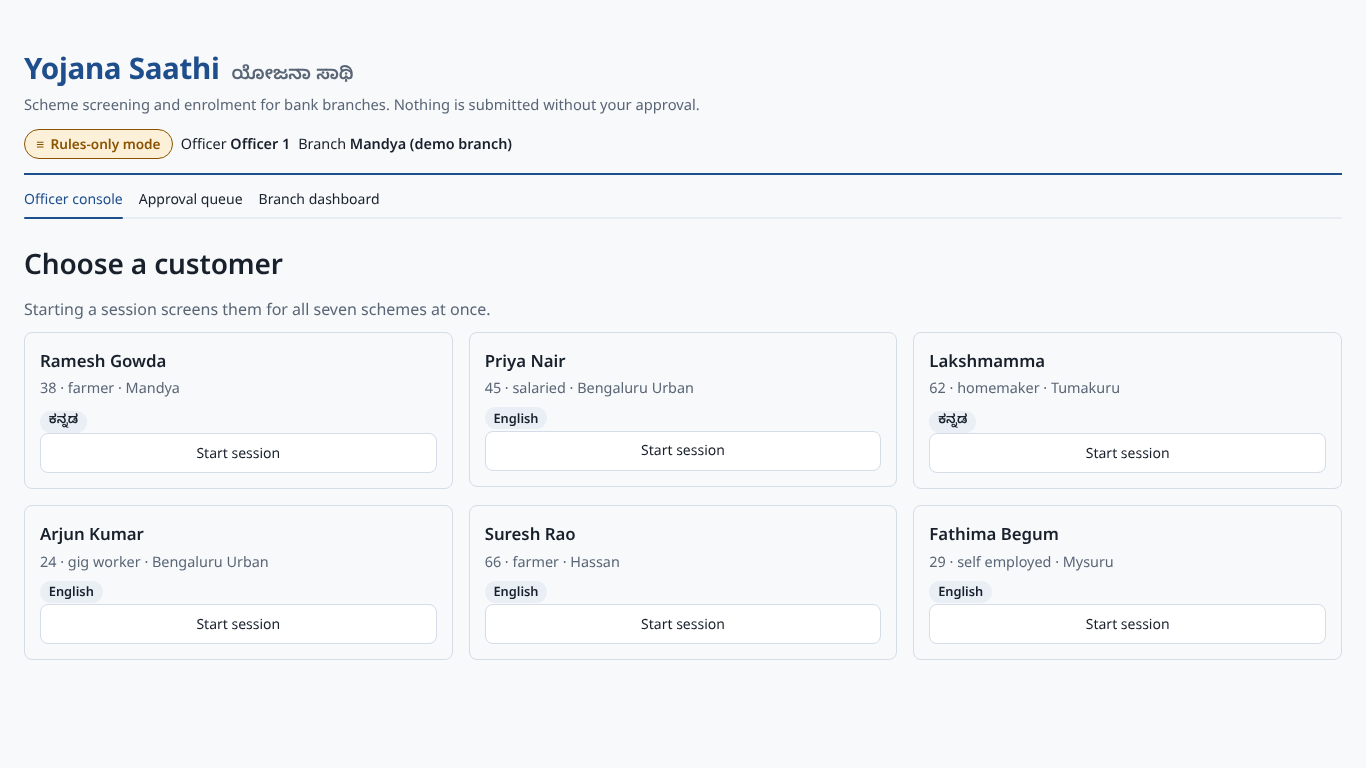
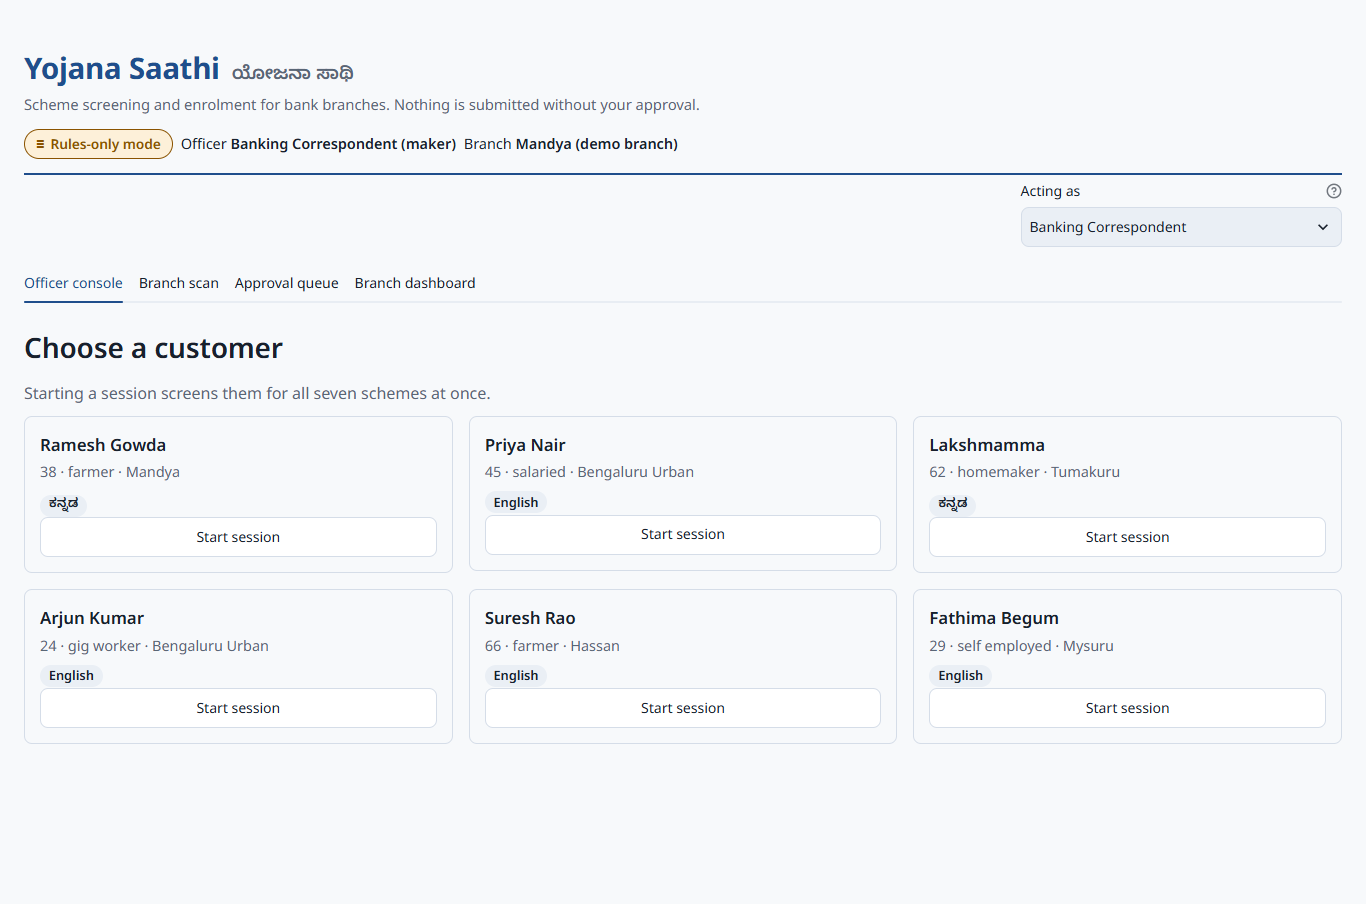
Docs: UI checks next to A1-A10, CI screenshots, refreshed screenshots (#26)
- DEMO.md: table of the UI walkthrough steps and what each asserts; the browser phase.
- UI.md: screenshots are regenerated by CI (ui-screenshots artifact) and how to refresh them
  locally; which files the script writes; scan row in the screenshot table. The dashboard
  full-page shot is now dashboard-1366x768.png (every tab shot is full page), so the
  duplicate dashboard-full-1366.png is gone.
- AGENTS.md layout: ui_flows.py, screenshots.py, smoke.py's new scope. TASKS.md: #26 done.
- docs/screenshots: regenerated by `SMOKE_SCREENSHOTS=docs/screenshots python scripts/smoke.py`.

diff --git a/docs/UI.md b/docs/UI.md
@@ -95,7 +95,7 @@ Status changes are announced three ways: the card pulses twice (skipped with red
 
 Escalated items (`NEEDS_OFFICER`) come first, highlighted. Then one group per customer, revised items with a diff on top. Each card shows the real PDF page as a thumbnail ("View page" for a readable size). On the right: what it is, who prepared it, why it was rejected, and **what changed since the rejection**. Below that, **Approve** (primary), **Reject…** (a popover with a required reason) or **Edit and send back…** (also a popover). Every action ends with a confirmation toast. Reason and edit inputs are forms, so the first click always counts. At 1366×768 the revised item's diff and Approve are visible without scrolling (checked in Chromium: Approve ends at 701px).
 
-| Priya: the diff since the rejection, ready to approve | Escalated first | "View page" |
+| The diff since the rejection, ready to approve | Escalated first | "View page" |
 |---|---|---|
 | ![diff](screenshots/queue-1366x768.png) | ![escalated](screenshots/queue-escalated-1366x768.png) | ![page](screenshots/queue-view-page-1366x768.png) |
 
@@ -124,14 +124,27 @@ The Report stage, fourth tab. It's **read-only**: one `GET /dashboard` and one `
 
 On an empty DB the tiles read 0 / "—" and the charts are replaced by "Run a session to see outcomes".
 
-| After the Ramesh and Priya flows (full page) | Clicked PMJJBY: panels and table filter |
+| After the smoke flows (full page) | Clicked PMJJBY: panels and table filter |
 |---|---|
-| ![full](screenshots/dashboard-full-1366.png) | ![filtered](screenshots/dashboard-filtered-1366.png) |
+| ![full](screenshots/dashboard-1366x768.png) | ![filtered](screenshots/dashboard-filtered-1366.png) |
 
 ## Screenshots
+
+**CI regenerates them on every PR** (#26): the smoke job opens every tab in headless Chromium after the demo flows and uploads the **`ui-screenshots`** artifact (14 days, also on a failed run), with an `index.md` of the files and the browser checks. A tab that shows an exception, logs a browser console error or never finishes rendering fails CI.
+
+To refresh the committed ones, run the smoke test with an output dir, look at every PNG, then commit the PNGs (not `index.md`, which is the run's report and is git-ignored here):
+
+```bash
+SMOKE_SCREENSHOTS=docs/screenshots python scripts/smoke.py
+# no Playwright Chromium on this machine? use an installed browser instead of `playwright install`:
+SMOKE_SCREENSHOTS=docs/screenshots SMOKE_BROWSER_CHANNEL=msedge python scripts/smoke.py
+```
+
+`scripts/screenshots.py` writes, full page unless noted: `console-picker-`, `scan-`, `queue-`, `dashboard-1366x768.png`; `queue-view-page-1366x768.png` (the popover, viewport only); `dashboard-filtered-1366.png` (after a real click on the PMJJBY bar); `console-1366x768.png` (Ramesh picked in the picker); and `<tab>-tablet-820x1180.png` for all four tabs. The other images on this page (answered / approved console, live pipeline, "why" drawer, escalated queue, scan filters / started) are captured by hand.
 
 | | 1366×768 (projector) | 820px (tablet) |
 |---|---|---|
 | Officer console | ![console](screenshots/console-1366x768.png) | ![console](screenshots/console-tablet-820x1180.png) |
+| Branch scan | ![scan](screenshots/scan-1366x768.png) | ![scan](screenshots/scan-tablet-820x1180.png) |
 | Approval queue | ![queue](screenshots/queue-1366x768.png) | ![queue](screenshots/queue-tablet-820x1180.png) |
 | Branch dashboard | ![dashboard](screenshots/dashboard-1366x768.png) | ![dashboard](screenshots/dashboard-tablet-820x1180.png) |

diff --git a/docs/DEMO.md b/docs/DEMO.md
@@ -48,6 +48,22 @@ Lead with the value tiles: "₹X lakh unlocked so far; ₹Y lakh still eligible 
 
 `python scripts/smoke.py` runs A1–A7, A9 and A10 automatically against a real API + UI (CI does this on every PR). A8 is manual.
 
+It then re-seeds and walks the same story **through the UI itself** (`scripts/ui_flows.py`, Streamlit AppTest, rules-only), one check per step. Every step also fails if the app raised an exception:
+
+| Step | What's asserted |
+|---|---|
+| UI 1 Start session (Ramesh, as the Banking Correspondent) | Products panel renders; PMFBY Unknown, PM-KISAN Eligible – blocked |
+| UI 2 Record answer (notified crop = Yes, notified area = Yes) | PMFBY becomes Eligible |
+| UI 3 Customer doesn't know (Arjun, income-tax status) | APY goes to Verify manually and no question is left (the app resolves the question with no answer) |
+| UI 4 Prepare all steps | 6 items pending approval; the plan starts with Aadhaar seeding |
+| UI 5 Maker can't approve | Approve is disabled for officer-1 on every item they prepared |
+| UI 6 Branch Manager approves seeding, eKYC and the PMJJBY form | All three submitted; PM-KISAN unblocks |
+| UI 7 Reject ("nominee name misspelt") → BC edits the nominee → Save and send back | Rejected, then pending again at revision 1; the revision diff renders |
+| UI 8 Run scan | The call list renders with a Start session per row |
+| UI 9 Dashboard | KPI tiles, funnel, Eligibility by product and Audit log render; the PMJJBY filter (the chart's selection state) narrows the table to PMJJBY; a document filter is kept, a rule filter with no bar is dropped; audit filters by session, actor, event and search each show filtered rows |
+
+With `SMOKE_SCREENSHOTS=<dir>` (always on in CI) it also opens every tab in headless Chromium, fails on a visible exception, a browser console error or a tab that never renders, clicks the PMJJBY bar for real, and saves the screenshots (docs/UI.md, "Screenshots").
+
 ## 3. Likely judge questions
 
 | Question | Answer |

diff --git a/AGENTS.md b/AGENTS.md
@@ -114,7 +114,9 @@ tests/
 scripts/
   check_guardrails.py      static checks for the non-negotiable rules
   check_docs_sync.py       docs/ ↔ code contract checks
-  smoke.py                 boots API + UI and walks DEMO.md A1–A7
+  smoke.py                 boots API + UI: DEMO.md A1–A10 over HTTP, the UI flows, optional browser screenshots
+  ui_flows.py              smoke's UI walkthrough (Streamlit AppTest): start → answer → prepare → approve → reject + revise → scan → dashboard
+  screenshots.py           smoke's browser phase (Playwright): every tab checked + screenshotted (SMOKE_SCREENSHOTS)
   live_llm_check.py        real-LLM scenario run → docs/LIVE_LLM_RUN.md (manual only, needs a key; never in CI)
 .github/workflows/ci.yml   CI; the required check is "CI passed"
 docs/
@@ -138,7 +140,7 @@ ruff check . && mypy app                 # lint + types
 pytest -p randomly --cov --cov-fail-under=80
 python scripts/check_guardrails.py       # the non-negotiable rules above, checked statically
 python scripts/check_docs_sync.py        # docs/ and code agree (products.json, tools, routes, prompt)
-python scripts/smoke.py                  # boots API + UI and walks DEMO.md A1–A7
+python scripts/smoke.py                  # boots API + UI: DEMO.md A1–A10, the UI flows (SMOKE_SCREENSHOTS=dir adds the browser)
 ```
 
 ## Coding conventions

diff --git a/docs/TASKS.md b/docs/TASKS.md
@@ -27,7 +27,7 @@ Work on a branch (`om/*`, `abhinav/*`, `feat/*`, `docs/*`, …) and open every P
 | #19 Approval queue redesign: inline PDF preview, revision diff, one-click actions | Abhinav | open |
 | #21 Branch dashboard redesign: KPI tiles, enrollment funnel, interactive charts | Om | done |
 | #24 UI polish and accessibility pass | Abhinav | open |
-| #26 UI tests: extend the smoke AppTest and publish screenshots from CI | Om | open |
+| #26 UI tests: extend the smoke AppTest and publish screenshots from CI | Om | done |
 | #38 Branch scan tab: call list UI with one-click "Start session" | Abhinav | planned |
 
 **Sprint 3: Demo day**
